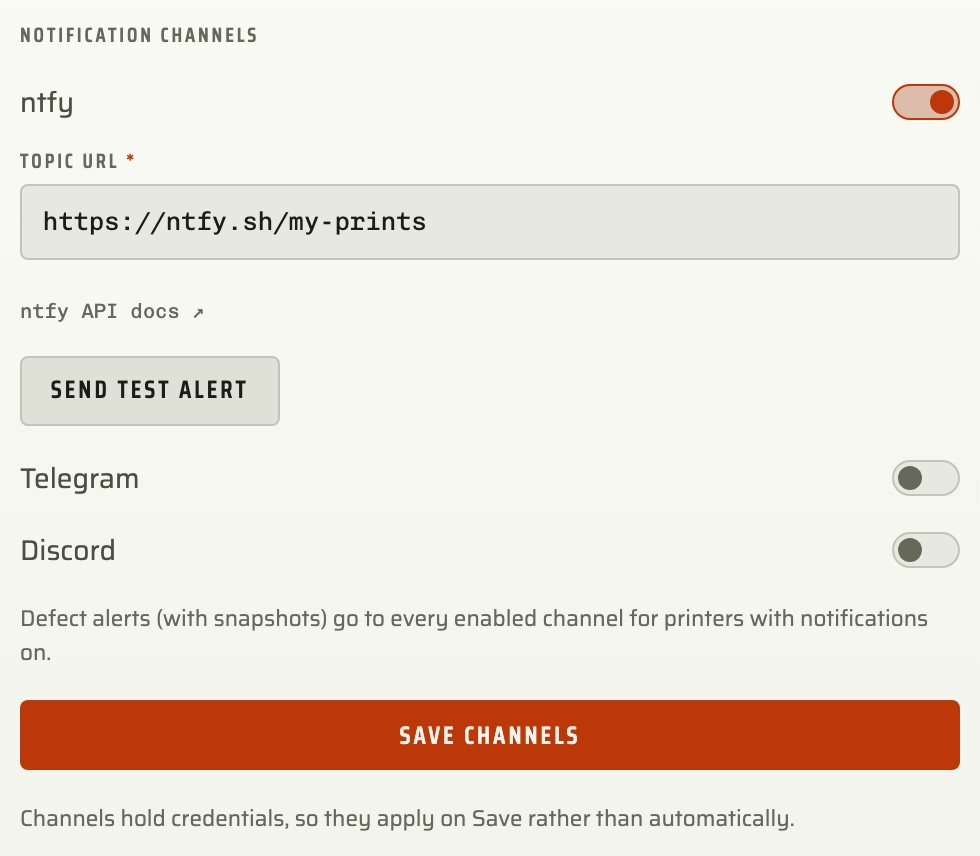
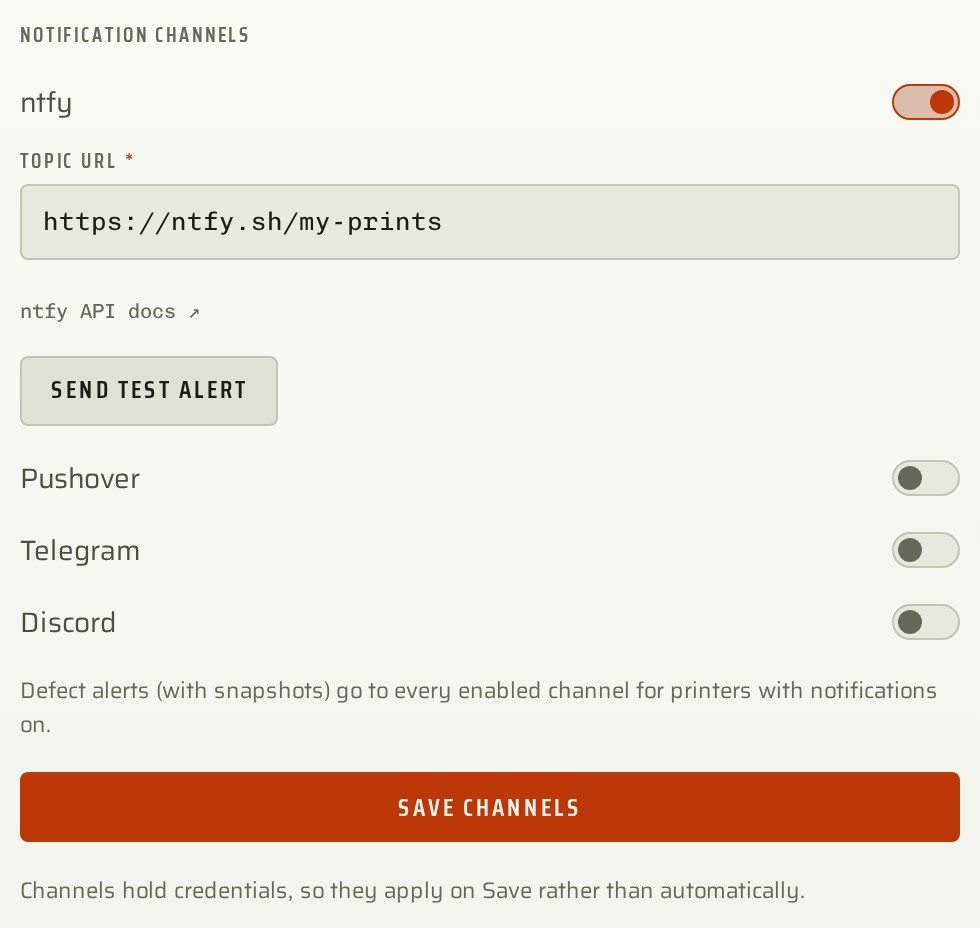
Name Pushover everywhere the channels are listed
Adding the adapter updated the guide copy but left six surfaces still
naming only ntfy, Telegram and Discord.

The alert:send permission text matters most: a plugin granted it now
reaches Pushover as well, so the consent table understated what the
user was approving. That string lives in PERMISSIONS and is copied into
plugin.schema.json by plugins/schema.py, which I reran rather than
editing the generated file.

The guide screenshot is drawn from a fixture in capture.spec.ts rather
than the registry, so the committed image kept showing three channels
and rerunning the capture would not have changed it. Fixture updated
and both themes recaptured.

The rest is copy: the landing page feature list, the Unraid template
overview that Community Applications shows, and the progress-reports
README.

diff --git a/web/src/components/Home.tsx b/web/src/components/Home.tsx
@@ -179,7 +179,7 @@ export function Home() {
         <div className="grid gap-3 sm:grid-cols-2 lg:grid-cols-4">
           <Feature index={2} led="led-infer" title="Detect" body="A compact encoder scores every frame against failure prototypes, scheduled fairly across all your cameras." />
           <Feature index={3} led="led-on" title="Act" body="A sustained defect pauses or cancels the print through OctoPrint, Klipper, Elegoo, Prusa or Bambu, and inference rests while the printer is idle." />
-          <Feature index={4} led="led-bad" title="Alert" body="The moment a defect holds, a snapshot lands on your phone over ntfy, Telegram or Discord." />
+          <Feature index={4} led="led-bad" title="Alert" body="The moment a defect holds, a snapshot lands on your phone over ntfy, Pushover, Telegram or Discord." />
           <Feature index={5} led="led-warn" title="Fail safe" body="A watchdog warns the second a camera drops, a feed freezes or your printer stops answering. Nothing fails silently." />
         </div>
       </section>

diff --git a/web/screenshots/capture.spec.ts b/web/screenshots/capture.spec.ts
@@ -249,6 +249,10 @@ const NOTIFIERS = [
     schema: { properties: { url: { type: "string", title: "Topic URL", placeholder: "https://ntfy.sh/my-prints" } }, required: ["url"] },
   },
   {
+    id: "pushover", label: "Pushover", docs_url: "",
+    schema: { properties: { api_token: { type: "string", title: "Application API token", secret: true }, user_key: { type: "string", title: "User key", secret: true } }, required: ["api_token", "user_key"] },
+  },
+  {
     id: "telegram", label: "Telegram", docs_url: "",
     schema: { properties: { token: { type: "string", title: "Bot token", secret: true }, chat_id: { type: "string", title: "Chat ID" } }, required: ["token", "chat_id"] },
   },

diff --git a/printguard/engine/plugins.py b/printguard/engine/plugins.py
@@ -145,7 +145,7 @@ PERMISSIONS: dict[str, dict[str, Any]] = {
     },
     "alert:send": {
         "label": "Use your alert channels",
-        "description": "Send through your ntfy, Telegram or Discord.",
+        "description": "Send through your ntfy, Pushover, Telegram or Discord.",
         "commands": ["notify.send"],
         "risky": True,
     },

diff --git a/docs/plugins.md b/docs/plugins.md
@@ -97,7 +97,7 @@ off, add `PRINTGUARD_PLUGINS=off` to its environment, then remove the plugin.
 | `monitor:control` | Enable, disable and retune any monitor | |
 | `printer:control` | Pause, resume and cancel prints | |
 | `notify` | Raise a message in the dashboard | |
-| `alert:send` | Send through your own ntfy, Telegram or Discord | |
+| `alert:send` | Send through your own ntfy, Pushover, Telegram or Discord | |
 | `net` | Reach the addresses its manifest lists | |
 | `net:local` | Reach addresses on this machine and the network around it | |
 | `monitor:manage` | Add monitors and delete them | |

diff --git a/plugins/progress-reports/README.md b/plugins/progress-reports/README.md
@@ -4,4 +4,4 @@ Sends a tally of a print through your alert channels as often as you ask: how fa
 
 ![Turning reports on for a monitor](shots/settings.png)
 
-Reports go through the same ntfy, Telegram or Discord channels your defect alerts use. Each monitor turns reports on in its settings and picks how often they come.
+Reports go through the same ntfy, Pushover, Telegram or Discord channels your defect alerts use. Each monitor turns reports on in its settings and picks how often they come.
